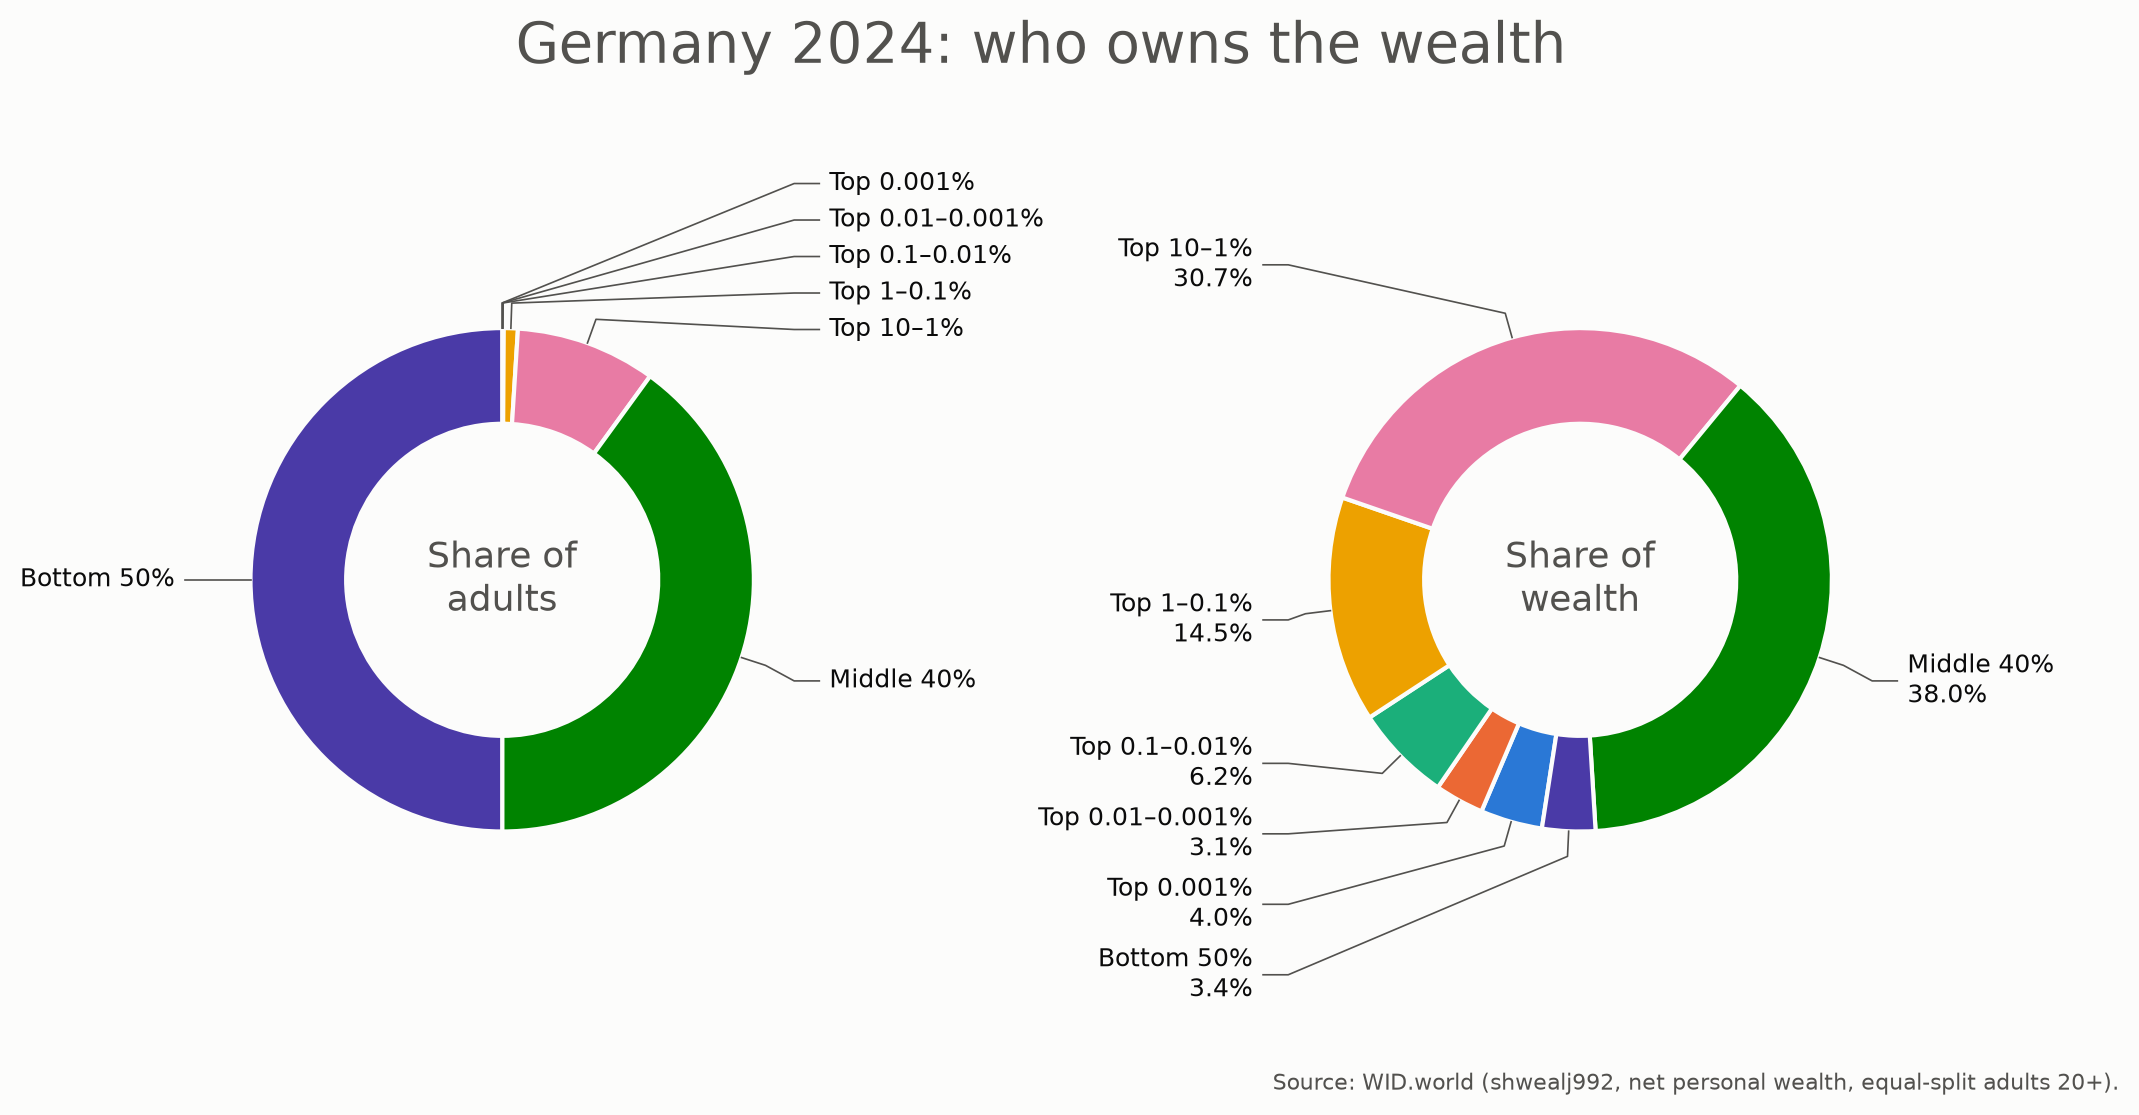
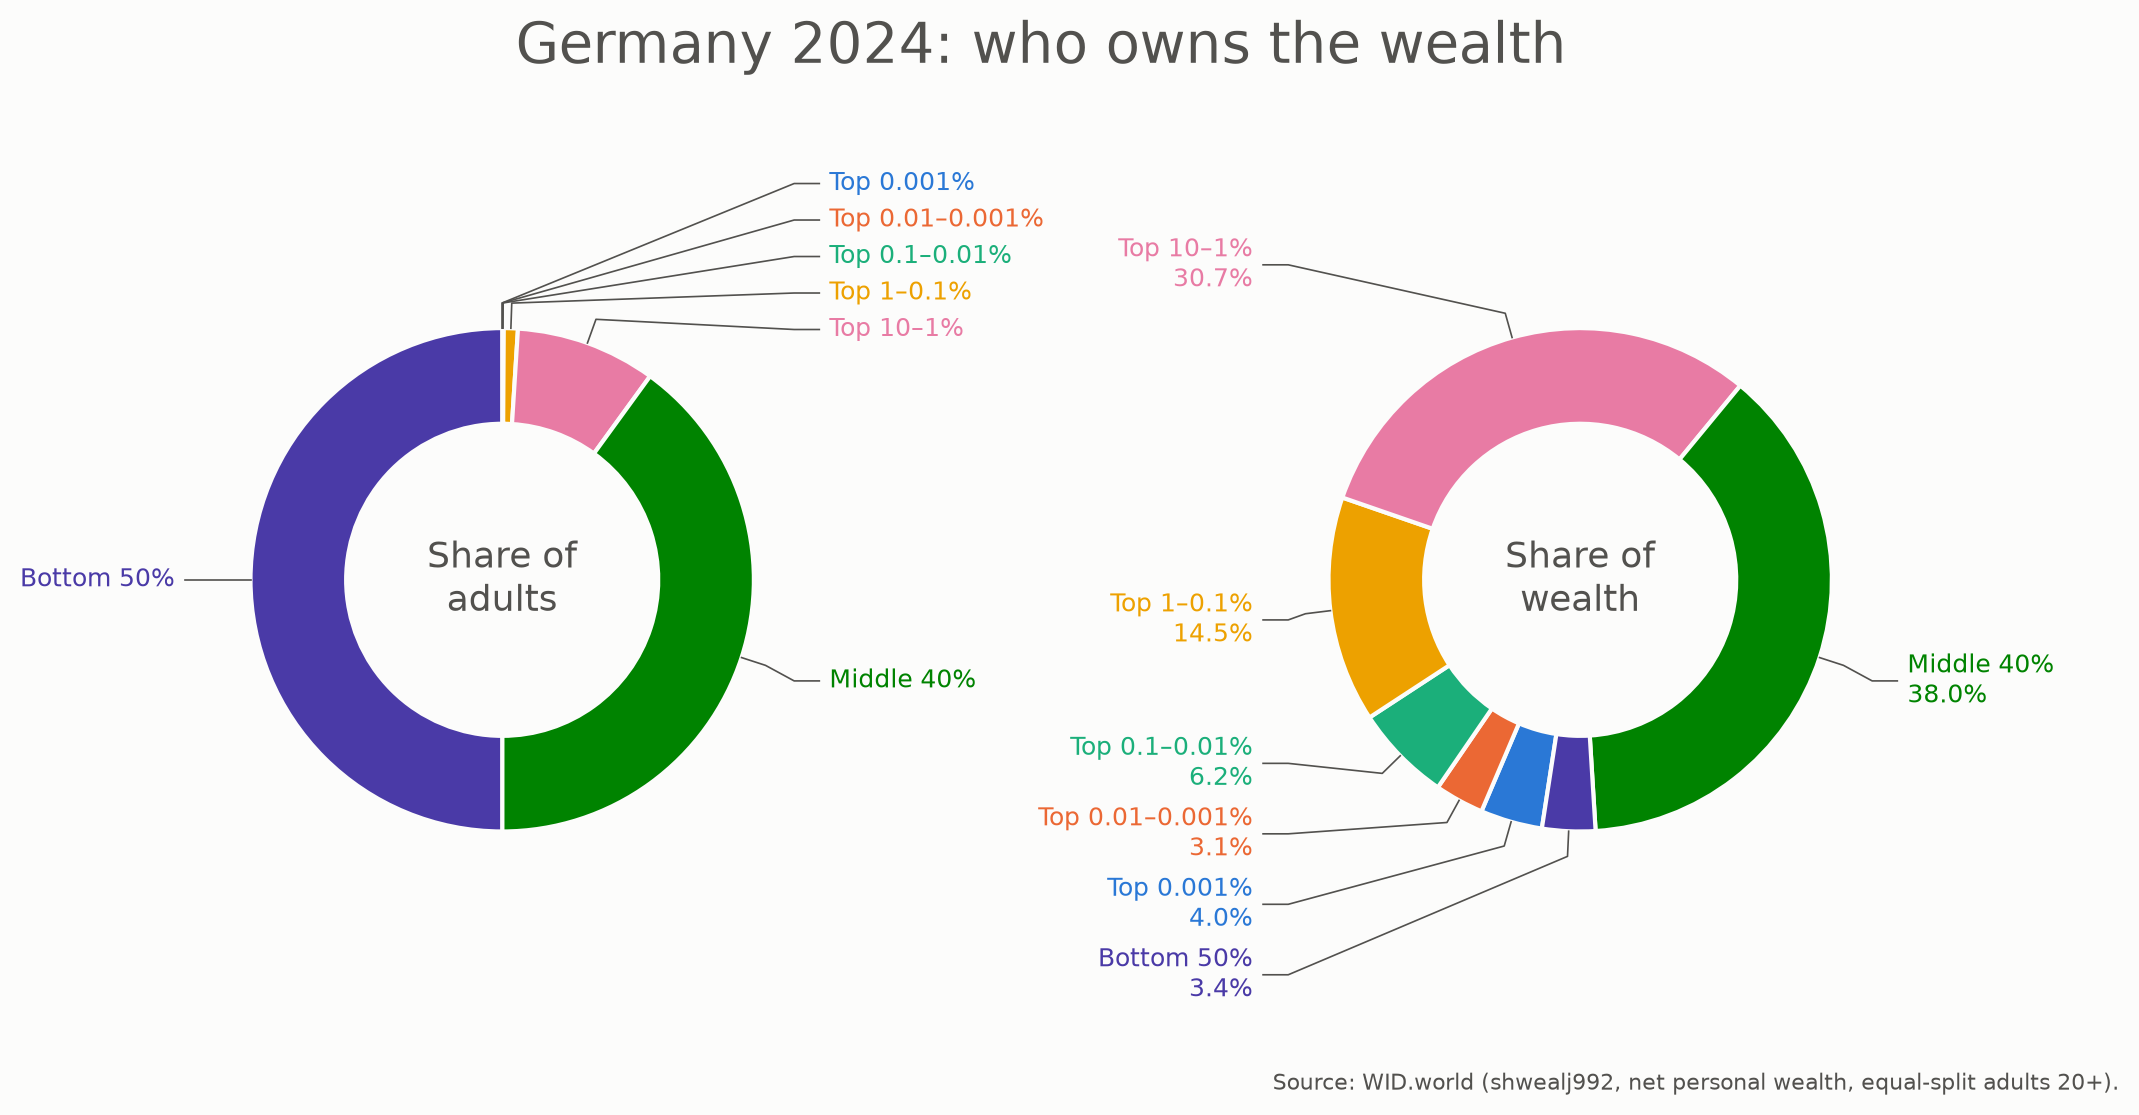
Drop the zoom chart; colour donut labels by their slice
- remove plot_donuts_zoom, its CLI entry point, Makefile target and output
- donut labels use their slice's colour
- notebook: replace the zoom-chart cell with the line and donut charts

diff --git a/src/wid/plotting/donut_chart.py b/src/wid/plotting/donut_chart.py
@@ -1,9 +1,4 @@
-"""Two donuts: share of adults vs. share of wealth for the same groups.
-
-`plot_donuts` labels every group around the rings. `plot_donuts_zoom` labels the
-top 1% of the adults donut through a chain of zoom panels instead: each panel is
-10x closer than the last, because each decade band is 10x thinner.
-"""
+"""Two donuts: share of adults vs. share of wealth for the same groups."""
 
 import math
 from dataclasses import dataclass
@@ -13,11 +8,9 @@ import matplotlib.pyplot as plt
 import polars as pl
 from matplotlib.axes import Axes
 from matplotlib.figure import Figure
-from matplotlib.patches import ConnectionPatch, Rectangle
 
 from wid.io.load import cum_share_at
 from wid.plotting.style import (
-    INK,
     INK_SECONDARY,
     LABEL_FONTSIZE,
     SOURCE_NOTE,
@@ -68,25 +61,6 @@ DONUT_LABEL_LINE_HEIGHT = 0.135  # data units (radius = 1) per text line
 DONUT_LABEL_PADDING = 0.01
 DONUT_LABEL_Y_MAX = 1.62
 DONUT_Y_LIMITS: tuple[float, float] = (-1.78, 1.78)
-
-# Zoom chain over the 12 o'clock region of the adults donut: one panel per
-# "top x%" level. Each window spans 10% of x (in donut data units) to the left
-# of 12 o'clock for context and 80% to the right, ending inside the next band.
-ZOOM_LEVELS_PCT: tuple[float, ...] = (1.0, 0.1, 0.01)
-ZOOM_WINDOW_WIDTH_PER_PCT = 0.1  # window width = this * level
-ZOOM_WINDOW_LEFT = 0.2  # fraction of the window left of 12 o'clock
-ZOOM_RING_FRACTION = 0.7  # fraction of the window height showing the ring
-ZOOM_LABEL_INSIDE_MIN = 0.3  # bands narrower than this (window fraction) label above
-
-# Figure layout for the zoom chart (figure fractions).
-ZOOM_FIGSIZE: tuple[float, float] = (11.0, 8.6)
-ZOOM_DONUT_BOXES: tuple[tuple[float, float, float, float], ...] = (
-    (0.0, 0.02, 0.5, 0.62),
-    (0.5, 0.02, 0.5, 0.62),
-)
-ZOOM_PANEL_LEFTS: tuple[float, ...] = (0.115, 0.4, 0.685)
-ZOOM_PANEL_BOTTOM = 0.69
-ZOOM_PANEL_SIZE: tuple[float, float] = (0.25, 0.2)
 
 
 @dataclass(frozen=True)
@@ -160,12 +134,8 @@ def draw_ring(
     groups: list[Group],
     values: list[float],
     start_angle: float = DONUT_START_ANGLE,
-    clip: bool = False,
 ) -> list[float]:
-    """Draw the ring richest-first, clockwise; return wedge mid-angles (radians).
-
-    pie() draws unclipped wedges; pass `clip=True` when the axes is a zoomed view.
-    """
+    """Draw the ring richest-first, clockwise; return wedge mid-angles (radians)."""
     wedges, *_ = ax.pie(
         values[::-1],
         colors=[g.color for g in groups[::-1]],
@@ -175,7 +145,6 @@ def draw_ring(
             "width": DONUT_RING_WIDTH,
             "edgecolor": SURFACE,
             "linewidth": 1.5,
-            "clip_on": clip,
         },
     )
     return [math.radians((w.theta1 + w.theta2) / 2) for w in wedges][::-1]
@@ -187,15 +156,14 @@ def plot_donut(
     values: list[float],
     labels: list[str],
     centre: str,
-    unlabelled: frozenset[str] = frozenset(),
     start_angle: float = DONUT_START_ANGLE,
 ) -> None:
     """Draw one donut with a leader-lined label per group (poorest group first)."""
     mids = draw_ring(ax, groups, values, start_angle)
     ax.text(0, 0, centre, ha="center", va="center", fontsize=13, color=INK_SECONDARY)
 
-    shown = [i for i, g in enumerate(groups) if g.name not in unlabelled]
-    n_lines = max(labels[i].count("\n") + 1 for i in shown)
+    shown = range(len(groups))
+    n_lines = max(label.count("\n") + 1 for label in labels)
     min_gap = n_lines * DONUT_LABEL_LINE_HEIGHT + DONUT_LABEL_PADDING
 
     # Spread labels per side so thin neighbouring wedges do not stack their text.
@@ -229,7 +197,7 @@ def plot_donut(
             ha="left" if on_right[i] else "right",
             va="center",
             fontsize=LABEL_FONTSIZE,
-            color=INK,
+            color=groups[i].color,  # label in its slice's colour
         )
     ax.set_xlim(-DONUT_AXIS_HALF_WIDTH, DONUT_AXIS_HALF_WIDTH)
     ax.set_ylim(*DONUT_Y_LIMITS)
@@ -284,171 +252,4 @@ def plot_donuts(df: pl.DataFrame, year: int, out_path: Path) -> None:
         "Share of\nadults",
     )
     plot_wealth_donut(ax_wealth, groups)
-    finish_figure(fig, year, out_path)
-
-
-@dataclass(frozen=True)
-class ZoomWindow:
-    x0: float
-    x1: float
-    y0: float
-    y1: float
-
-
-def ring_x(top_pct: float) -> float:
-    """x at the outer edge of the ring where the richest `top_pct`% of adults end."""
-    return math.sin(math.radians(top_pct * 3.6))
-
-
-def zoom_window(level_pct: float, aspect: float) -> ZoomWindow:
-    """Window around 12 o'clock showing the top `level_pct`% of the adults donut."""
-    width = ZOOM_WINDOW_WIDTH_PER_PCT * level_pct
-    height = width / aspect
-    x0 = -ZOOM_WINDOW_LEFT * width
-    y0 = 1.0 - ZOOM_RING_FRACTION * height
-    return ZoomWindow(x0, x0 + width, y0, y0 + height)
-
-
-def outline(ax: Axes, w: ZoomWindow) -> None:
-    ax.add_patch(
-        Rectangle(
-            (w.x0, w.y0),
-            w.x1 - w.x0,
-            w.y1 - w.y0,
-            fill=False,
-            edgecolor=INK_SECONDARY,
-            linewidth=0.8,
-            zorder=5,
-        )
-    )
-
-
-def connect(
-    fig: Figure,
-    ax_a: Axes,
-    xy_a: tuple[float, float],
-    ax_b: Axes,
-    xy_b: tuple[float, float],
-) -> None:
-    fig.add_artist(
-        ConnectionPatch(
-            xyA=xy_a,
-            coordsA=ax_a.transData,
-            xyB=xy_b,
-            coordsB=ax_b.transData,
-            color=INK_SECONDARY,
-            linewidth=0.8,
-            # Behind the axes: the opaque zoom panels hide the stretch that would
-            # otherwise cut across their bands and labels.
-            zorder=-1,
-        )
-    )
-
-
-def plot_zoom_panel(
-    ax: Axes, groups: list[Group], window: ZoomWindow, level_pct: float, last: bool
-) -> None:
-    """One zoom panel: the ring around 12 o'clock, labelling the bands it resolves."""
-    population = [g.population_pct for g in groups]
-    draw_ring(ax, groups, population, clip=True)
-    ax.set_xlim(window.x0, window.x1)
-    ax.set_ylim(window.y0, window.y1)
-    ax.set_aspect("equal", adjustable="box")
-    ax.set_xticks([])
-    ax.set_yticks([])
-    ax.set_frame_on(True)  # pie() switches the frame off
-    ax.set_facecolor(SURFACE)
-    for spine in ax.spines.values():
-        spine.set_edgecolor(INK_SECONDARY)
-        spine.set_linewidth(0.8)
-    closer = round(ZOOM_LEVELS_PCT[0] / level_pct)
-    title = f"Top {level_pct:g}%" + (f" ({closer}× closer)" if closer > 1 else "")
-    ax.set_title(title, fontsize=LABEL_FONTSIZE + 1, color=INK_SECONDARY, pad=6)
-
-    width = window.x1 - window.x0
-    ring_mid_y = 1.0 - ZOOM_RING_FRACTION * (window.y1 - window.y0) / 2
-    richer = 0.0  # population share (%) of all richer groups
-    for group in groups[::-1]:
-        upper = richer + group.population_pct
-        richer = upper
-        # Label the band(s) this panel resolves: the one starting at this level,
-        # and on the last panel every richer band too.
-        if not (math.isclose(upper, level_pct) or (last and upper < level_pct)):
-            continue
-        x_lo, x_hi = ring_x(upper - group.population_pct), ring_x(upper)
-        x_mid = (max(x_lo, window.x0) + min(x_hi, window.x1)) / 2
-        if (
-            min(x_hi, window.x1) - max(x_lo, window.x0)
-        ) / width >= ZOOM_LABEL_INSIDE_MIN:
-            ax.text(
-                x_mid,
-                ring_mid_y,
-                group.name,
-                ha="center",
-                va="center",
-                fontsize=LABEL_FONTSIZE,
-                color=INK,
-            )
-        else:
-            # Too thin for text: label in the white space above the ring.
-            ax.annotate(
-                group.name,
-                xy=(x_mid, 1.0),
-                xytext=(0, 10),
-                textcoords="offset points",
-                ha="left",
-                va="bottom",
-                fontsize=LABEL_FONTSIZE,
-                color=INK,
-                arrowprops={
-                    "arrowstyle": "-",
-                    "color": INK_SECONDARY,
-                    "linewidth": 0.6,
-                },
-            )
-
-
-def plot_donuts_zoom(df: pl.DataFrame, year: int, out_path: Path) -> None:
-    groups = build_groups(df, DETAILED_GROUPS)
-    fig = plt.figure(figsize=ZOOM_FIGSIZE, facecolor=SURFACE)
-    ax_pop, ax_wealth = (fig.add_axes(box) for box in ZOOM_DONUT_BOXES)
-
-    top_names = frozenset(
-        spec.name for spec in DETAILED_GROUPS if spec.upper <= ZOOM_LEVELS_PCT[0]
-    )
-    plot_donut(
-        ax_pop,
-        groups,
-        [g.population_pct for g in groups],
-        [g.name for g in groups],
-        "Share of\nadults",
-        unlabelled=top_names,  # labelled in the zoom panels
-    )
-    plot_wealth_donut(ax_wealth, groups)
-
-    panel_w, panel_h = ZOOM_PANEL_SIZE
-    fig_w, fig_h = ZOOM_FIGSIZE
-    aspect = (panel_w * fig_w) / (panel_h * fig_h)
-    windows = [zoom_window(level, aspect) for level in ZOOM_LEVELS_PCT]
-    panels = [
-        fig.add_axes((left, ZOOM_PANEL_BOTTOM, panel_w, panel_h))
-        for left in ZOOM_PANEL_LEFTS
-    ]
-    for k, (panel, window, level) in enumerate(
-        zip(panels, windows, ZOOM_LEVELS_PCT, strict=True)
-    ):
-        plot_zoom_panel(panel, groups, window, level, last=k == len(panels) - 1)
-
-    # Donut -> first panel: the rectangle's top corners to the panel's bottom ones.
-    first = windows[0]
-    outline(ax_pop, first)
-    for x in (first.x0, first.x1):
-        connect(fig, ax_pop, (x, first.y1), panels[0], (x, first.y0))
-    # Panel -> next panel: matching right/left corners.
-    for k in range(len(panels) - 1):
-        nxt = windows[k + 1]
-        outline(panels[k], nxt)
-        for y in (nxt.y0, nxt.y1):
-            connect(fig, panels[k], (nxt.x1, y), panels[k + 1], (nxt.x0, y))
-
     finish_figure(fig, year, out_path)

diff --git a/src/wid/cli.py b/src/wid/cli.py
@@ -6,7 +6,7 @@ import fire
 
 from wid.io import DEFAULT_CSV, fetch_and_tidy, load_cumulative
 from wid.io.fetch import DEFAULT_RAW_DIR
-from wid.plotting import plot_donuts, plot_donuts_zoom, plot_line_chart
+from wid.plotting import plot_donuts, plot_line_chart
 
 DEFAULT_YEAR = 2024
 OUTPUT_DIR = Path("output")
@@ -39,16 +39,6 @@ def plot_donut(
     plot_donuts(load_cumulative(Path(csv_path), year), year, Path(out_path))
 
 
-def plot_donut_zoom(
-    year: int = DEFAULT_YEAR,
-    csv_path: str = str(DEFAULT_CSV),
-    out_path: str = str(OUTPUT_DIR / "germany_wealth_donuts_zoom.png"),
-) -> None:
-    """Donuts with a chain of zoom panels resolving the top 1% of adults."""
-    Path(out_path).parent.mkdir(parents=True, exist_ok=True)
-    plot_donuts_zoom(load_cumulative(Path(csv_path), year), year, Path(out_path))
-
-
 def fetch_data_main() -> None:
     fire.Fire(fetch_data)
 
@@ -59,7 +49,3 @@ def plot_line_main() -> None:
 
 def plot_donut_main() -> None:
     fire.Fire(plot_donut)
-
-
-def plot_donut_zoom_main() -> None:
-    fire.Fire(plot_donut_zoom)

diff --git a/src/wid/plotting/__init__.py b/src/wid/plotting/__init__.py
@@ -1,6 +1,6 @@
 """Charts of the German wealth distribution."""
 
-from wid.plotting.donut_chart import plot_donuts, plot_donuts_zoom
+from wid.plotting.donut_chart import plot_donuts
 from wid.plotting.line_chart import plot_line_chart
 
-__all__ = ["plot_donuts", "plot_donuts_zoom", "plot_line_chart"]
+__all__ = ["plot_donuts", "plot_line_chart"]

diff --git a/README.md b/README.md
@@ -14,7 +14,7 @@ wealth. The unit is equal-split adults aged 20+.
 make install     # uv sync
 make hooks       # install pre-commit hooks (ruff, ty, nbstripout)
 make data        # fetch WID_data_DE.csv from the bulk zip -> data/germany_wealth_gpercentiles_wid.csv
-make plots       # line chart, donuts, and donuts with zoom panels -> output/
+make plots       # line chart and donuts -> output/
 make plot-donut YEAR=2018
 make check       # all pre-commit hooks on all files
 ```
@@ -23,7 +23,7 @@ make check       # all pre-commit hooks on all files
 `wid.plotting`.
 
 The commands are also available directly: `uv run fetch-data`, `uv run plot-line`,
-`uv run plot-donut`, `uv run plot-donut-zoom` (each takes `--year`, `--csv_path`, `--out_path`).
+`uv run plot-donut` (each takes `--year`, `--csv_path`, `--out_path`).
 
 ## Data
 
